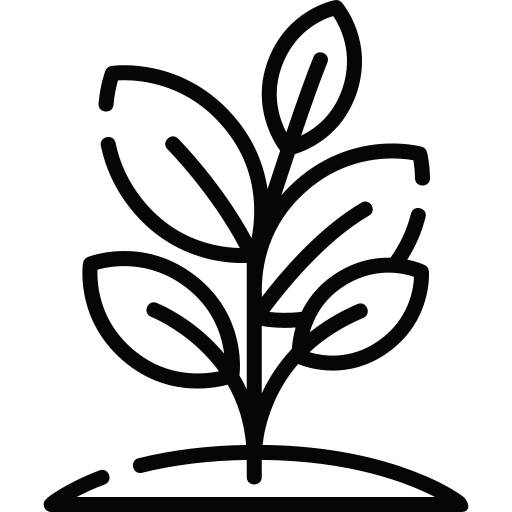
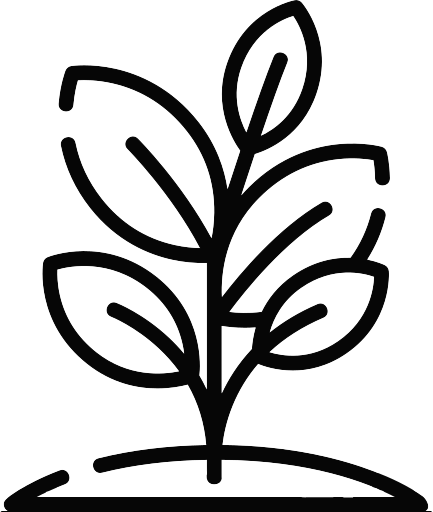
nova paleta de cores

diff --git a/assets/css/style.css b/assets/css/style.css
@@ -31,7 +31,7 @@ body {
     overflow: auto;
     display: flex;
     flex-direction: column;
-    background-color: #DED2CE;
+    background-color: #F2EBDC;
 }
 
 header {
@@ -59,7 +59,7 @@ footer {
     left: 0;
     width: 100%;
     height: 3rem;
-    background-color: #58C79E;
+    background-color: #BF9780;
 }
 
 nav {
@@ -79,12 +79,12 @@ nav {
 
 .materia{
     width:75%;
-    background-color: #BF7C63;
+    background-color: #025959;
     padding: 1.5rem;
     padding-left: 2rem;
     border-style: solid;
     border-bottom-width: 0.1rem;
-    border-color: #014A2F;
+    border-color: #014034;
     display: flex;
     flex-direction: row;
     font-family: 'Noto Serif', serif;
@@ -106,6 +106,7 @@ nav {
 
 a {
     text-decoration: none;
+    color: black;
 }
 
 .esquerda{
@@ -143,35 +144,40 @@ a {
 
 .folha1{
     position: absolute;
-    background-color: #F2E2DC;
+    background-color: #F2EBDC;
+    font-family: 'Lato', sans-serif;
     top: 60%;
     left: 64%;
 }
 
 .folha2{
     position: absolute;
-    background-color: #F2E2DC;
+    background-color: #F2EBDC;
+    font-family: 'Lato', sans-serif;
     top: 30%;
     left: 21%;
 }
 
 .folha3{
     position: absolute;
-    background-color: #F2E2DC;
+    background-color: #F2EBDC;
+    font-family: 'Lato', sans-serif;
     top: 13%;
     left: 56%;
 }
 
 .folha4{
     position: absolute;
-    background-color: #F2E2DC;
+    background-color: #F2EBDC;
+    font-family: 'Lato', sans-serif;
     top: 43%;
     left: 58%;
 }
 
 .folha5{
     position: absolute;
-    background-color: #F2E2DC;
+    background-color: #F2EBDC;
+    font-family: 'Lato', sans-serif;
     top: 61%;
     left: 16.5%;
 }
@@ -207,7 +213,8 @@ a {
 .num{
     display: flex;
     align-items: center;
-    background-color: #58C79E;
+    background-color: #025959;
+    color: white;
     flex-grow: 2;
     width: 2rem;
     max-width: 3rem;
@@ -227,7 +234,8 @@ a {
 .project{
     margin: 0.7rem 0.2rem;
     padding: 0.5rem;
-    background-color: #BF7C63;
+    background-color: #025959;
+    color: white;
     border-radius: 0.7rem;
     font-family: 'Noto Serif', serif;
 }
@@ -254,7 +262,7 @@ a {
 }
 
 .search input{
-    background-color: #D9D9D9;
+    background-color: #F2EBDC;
     border: hidden;
 }
 
@@ -264,7 +272,6 @@ a {
     display: flex;
     text-align: center;
     font-family: 'Lato', sans-serif;
-    color: #014A2F;
 }
 
 .body-topic{
@@ -272,7 +279,7 @@ a {
     font-size: 1.1em;
     display: unset;
     font-family: 'Noto Serif', serif;
-    background-color: #F2E2DC;
+    background-color: #F2EBDC;
 }
 
 .body-topic p{
@@ -320,7 +327,8 @@ a {
 }
 
 .post-it{
-    background-color: #BF7C63;
+    background-color: #025959;
+    color: white;
     width: 9rem;
     height: 8.5rem;
     margin: 0.5rem;
@@ -346,4 +354,8 @@ a {
 .no-space{
     justify-content: unset;
     margin-bottom: 0;
+}
+
+.texto-claro{
+    color:white;
 }

diff --git a/materias.html b/materias.html
@@ -21,13 +21,13 @@
     <main class="main-materias">
         <ul class="materia">
             <li><img src="assets/img/etiqueta.png" alt="etiqueta" class="search-img"/></li>
-            <li><p class="fonte_principal">Hora da escolha!</p></li>
+            <li><p class="fonte_principal texto-claro">Hora da escolha!</p></li>
         </ul>
-        <a class="materia" href="matematica.html">Matemática</a>
-        <a class="materia" href="matematica.html">Ciências Humanas</a>
-        <a class="materia" href="matematica.html">Ciências da Natureza</a>
-        <a class="materia" href="matematica.html">Redação</a>
-        <a class="materia" href="matematica.html">Linguagens</a>
+        <a class="materia texto-claro" href="matematica.html">Matemática</a>
+        <a class="materia texto-claro" href="">Ciências Humanas</a>
+        <a class="materia texto-claro" href="">Ciências da Natureza</a>
+        <a class="materia texto-claro" href="">Redação</a>
+        <a class="materia texto-claro" href="">Linguagens</a>
     </main>
 
     <footer>

diff --git a/index.html b/index.html
@@ -16,7 +16,7 @@
         <h1 class="esquerda">Olá, (nome)!</h1>
     </header>
     <main class="index">
-        <img src="assets/img/arvore_figma2.png" alt="arvore de assuntos" class="arvore">
+        <img src="assets/img/arvore_figma.png" alt="arvore de assuntos" class="arvore">
         <a class = "folha1" href="mecanica.html">Mecânica</a>
         <a class = "folha2" href="">Termologia</a>
         <a class = "folha3" href="">Óptica</a>

diff --git a/outras.html b/outras.html
@@ -23,7 +23,7 @@
         <!-- Todos os projetos -->
         <section class="project search">
             <img src="assets/img/etiqueta.png" alt="etiqueta" class="search-img">
-            <a class="fonte_principal" href="materias.html">Escolha uma matéria</a>
+            <a class="fonte_principal texto-claro" href="materias.html">Escolha uma matéria</a>
             
         </section>
         <section class="project">

diff --git a/cinematica.html b/cinematica.html
@@ -22,7 +22,7 @@
         <ul class="linha batata">
             <li class="topicos-cinematica num">
                 <h2>1.</h2>
-                <a href="mruv.html">
+                <a href="mruv.html" class = "texto-claro">
                     <h2>2.</h2>
                 </a>
                 <h2>3.</h2>
